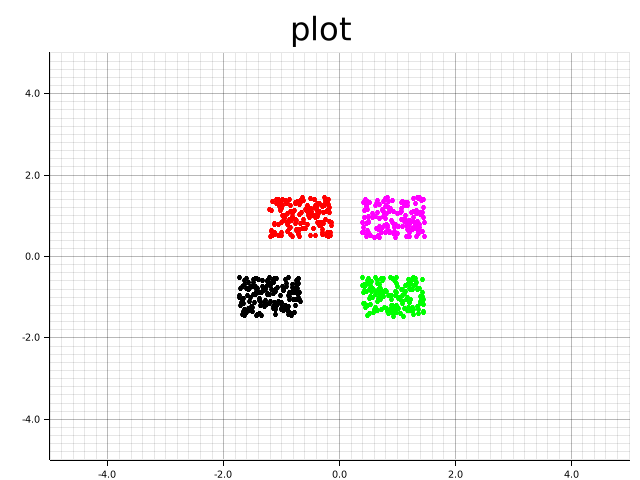
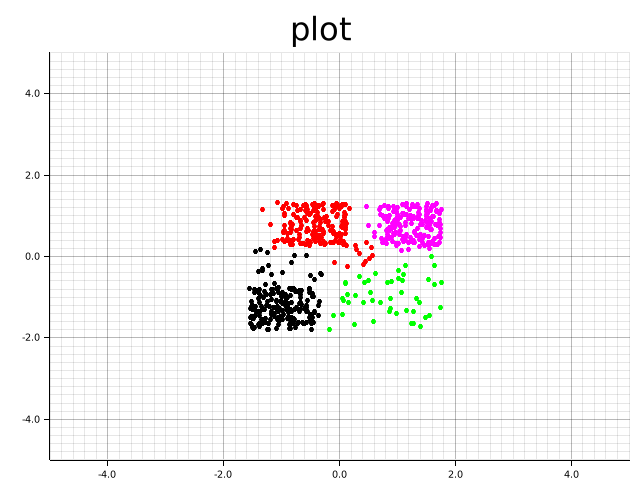
implemented DBScan

Changed region(s): [[0.375, 0.4062, 0.7188, 0.6875]]

diff --git a/src/cluster_algos/dbscan.rs b/src/cluster_algos/dbscan.rs
@@ -1,0 +1,74 @@
+use ndarray::prelude::*;
+use crate::utils::utility::*;
+use crate::utils::mathfuncs::*;
+use std::collections::HashSet;
+
+
+pub struct DBScan {
+    pub min_points: usize,
+    pub epsilon: f32,
+    pub is_visited: HashSet<usize>,
+    pub is_noise: HashSet<usize>,
+    pub is_in_cluster: HashSet<usize>,
+    pub partitions: Vec<i32>,
+    pub current_clusters: i32
+}
+
+impl DBScan {
+    fn initialize(&mut self, data: &Array2<f32>) {
+        self.partitions = vec![9; data.shape()[0]];
+    }
+
+    pub fn fit_predict(&mut self, data: &Array2<f32>) -> Vec<i32> {
+        self.initialize(data);
+        for i in 0..data.shape()[0]{
+            if self.is_visited.contains(&i){
+                continue;
+            }
+            self.is_visited.insert(i);
+            let neighbours = self.get_neighbours(data, i);
+            if neighbours.len() <= self.min_points {
+                self.is_noise.insert(i);
+            }
+            else {
+                self.partitions[i] = self.current_clusters;
+                self.is_in_cluster.insert(i);
+                for point in neighbours.into_iter() {
+                    if !self.is_in_cluster.contains(&point){
+                        self.expand_cluster(data, point);
+                    }
+                }
+                self.current_clusters += 1;
+            }
+        }
+        return self.partitions.clone();
+    }
+
+    fn expand_cluster(&mut self, data: &Array2<f32>,  index: usize) {
+        self.partitions[index] = self.current_clusters;
+        if !self.is_visited.contains(&index){
+            self.is_visited.insert(index);
+            self.is_in_cluster.insert(index);
+            let neighbours = self.get_neighbours(data, index);
+            if neighbours.len() >= self.min_points {
+                for point in neighbours.into_iter() {
+                    if !self.is_in_cluster.contains(&point){
+                        self.expand_cluster(data, point);
+                    }
+                }
+            }
+        }
+
+    }
+
+    fn get_neighbours(&self, data: &Array2<f32>, index: usize) -> Vec<usize> {
+        let mut neighbours: Vec<usize> = vec![];
+        for (i, point) in data.rows().into_iter().enumerate() {
+            let dist = l2(&data.row(index).to_owned(), &point.to_owned(), false);
+            if dist <= self.epsilon {
+                neighbours.push(i);
+            }
+        }
+        return neighbours;
+    }
+}

diff --git a/src/main.rs b/src/main.rs
@@ -1,5 +1,7 @@
+use std::collections::HashSet;
 use std::num::NonZeroIsize;
 use crate::cluster_algos::agglomerative::AgglomerativeCluster;
+use crate::cluster_algos::dbscan::DBScan;
 use crate::cluster_algos::lloyd::Kmeans;
 use crate::utils::mathfuncs::{silhouette_score, create_square, center_scale};
 use crate::utils::utility::*;
@@ -23,10 +25,10 @@ fn main() {
     let noise_intensity = 0;
 
     
-    let square_1: Array2<f32> = create_square(vec![1.0, 3.0], vec![1.0, 3.0], cluster_size, 2); // Cluster 1
-    let square_2: Array2<f32> = create_square(vec![5.0, 7.0], vec![2.0, 4.0], cluster_size, 2); // Cluster 2
-    let square_3: Array2<f32> = create_square(vec![5.0, 7.0], vec![5.0, 7.0], cluster_size, 2); // Cluster 3
-    let square_4: Array2<f32> = create_square(vec![1.0, 3.0], vec![5.0, 7.0], cluster_size + noise_intensity, 2); // A bunch of noise across them all
+    let square_1: Array2<f32> = create_square(vec![1.0, 3.0], vec![2.0, 4.0], cluster_size, 2); // Cluster 1
+    let square_2: Array2<f32> = create_square(vec![5.0, 7.0], vec![1.0, 3.0], cluster_size, 2); // Cluster 2
+    let square_3: Array2<f32> = create_square(vec![5.0, 7.0], vec![6.0, 7.0], cluster_size, 2); // Cluster 3
+    let square_4: Array2<f32> = create_square(vec![1.0, 8.0], vec![6.0, 7.0], cluster_size + noise_intensity, 2); // A bunch of noise across them all
 
     let mut data: Array2<f32> = ndarray::concatenate(
         Axis(0),
@@ -40,11 +42,23 @@ fn main() {
     .expect("An error occurred while stacking the dataset");
 
     center_scale(&mut data);
-
+    
+    let mut model = DBScan {
+        min_points: 1,
+        epsilon: 50e-2,
+        is_in_cluster: HashSet::new(),
+        is_visited: HashSet::new(),
+        is_noise: HashSet::new(),
+        partitions: vec![0],
+        current_clusters: 1
+    };
+    
+    /* 
     let mut model = AgglomerativeCluster {
         centers: 4,
         clusters: vec![vec![array![0.0]]]
     };
+    */
 
     /*
     let mut model = Kmeans  {
@@ -66,7 +80,7 @@ fn main() {
     //print_vec(&partitions);
     let centroids = array![[0.0, 0.0]];
     //println!("");
-    let _ = scatter_plot("agglo_fitted", &data, &partitions, &centroids);
+    let _ = scatter_plot("DBScan_fitted", &data, &partitions, &centroids);
     println!("plot generated");
 
 

diff --git a/src/cluster_algos.rs b/src/cluster_algos.rs
@@ -1,2 +1,3 @@
 pub mod lloyd;
 pub mod agglomerative;
+pub mod dbscan;
